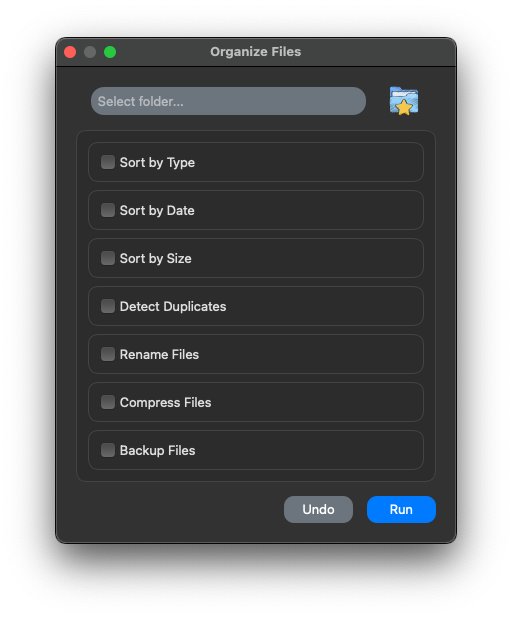
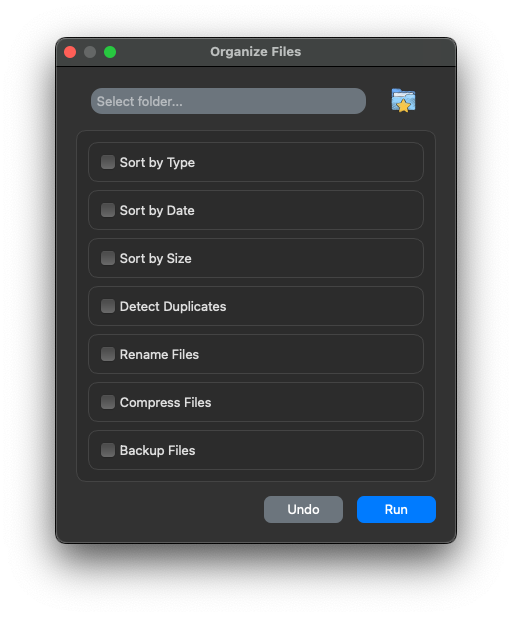
README updated (Organize File picture)

diff --git a/src/ui/style.py b/src/ui/style.py
@@ -33,7 +33,7 @@ FOLDER_INPUT_STYLE = """
 QLineEdit {
     background-color: #6c757d;  /* Dark gray background */
     color: white;  /* White text color */
-    border-radius: 13px;  /* Rounded corners */
+    border-radius: 11px;  /* Rounded corners */
     padding: 4px;  /* Padding for spacing */
 }
 """
